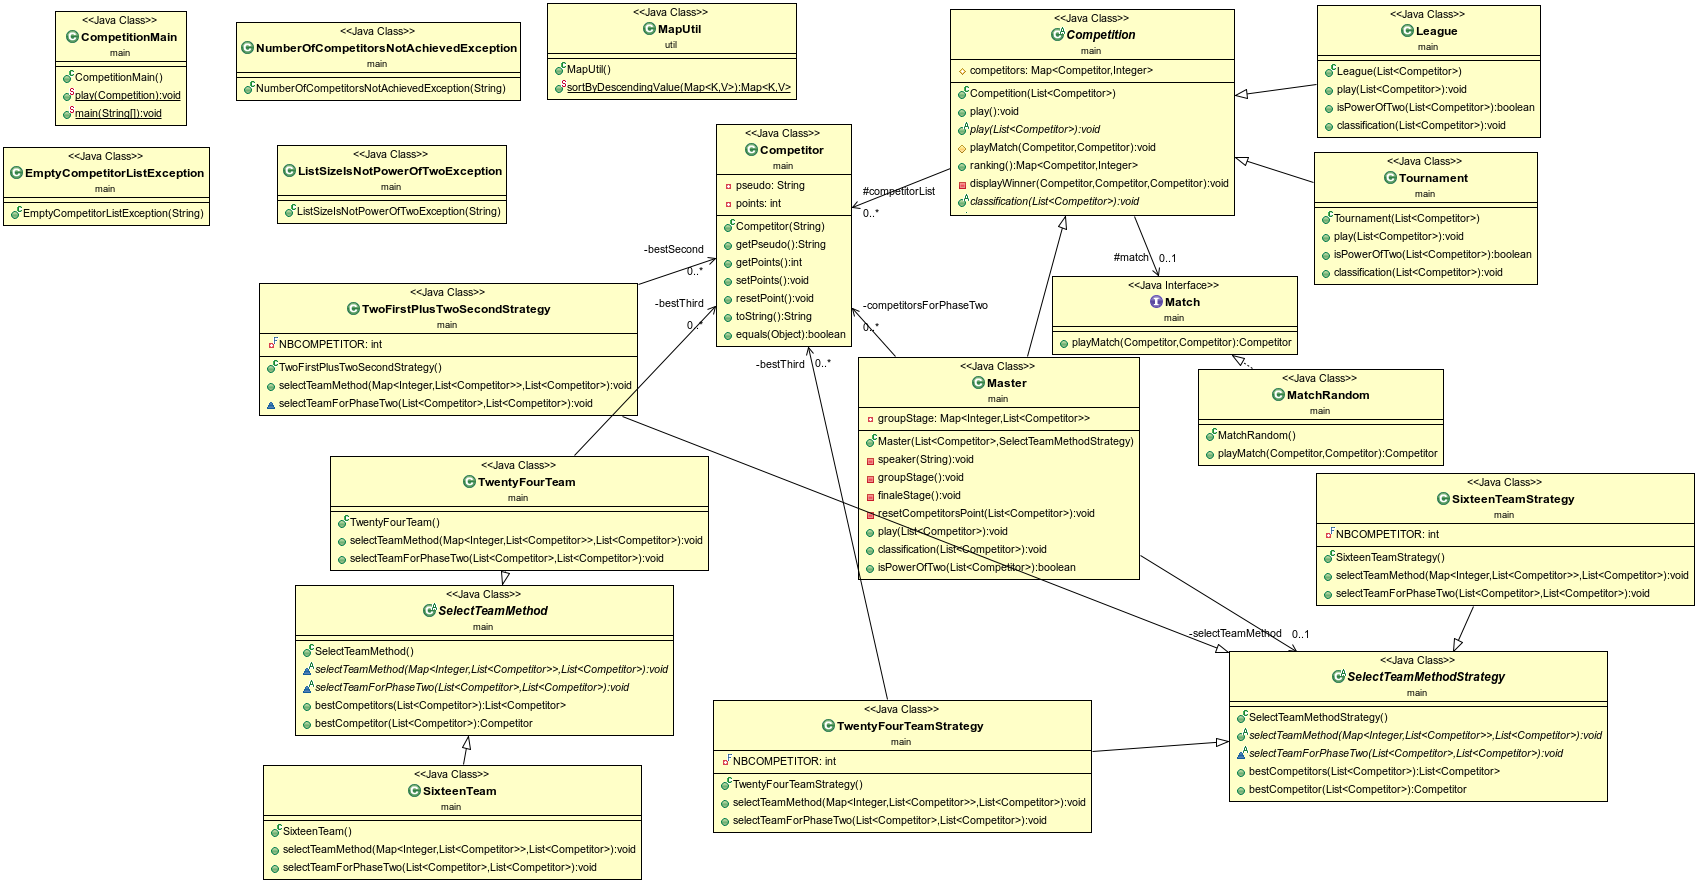
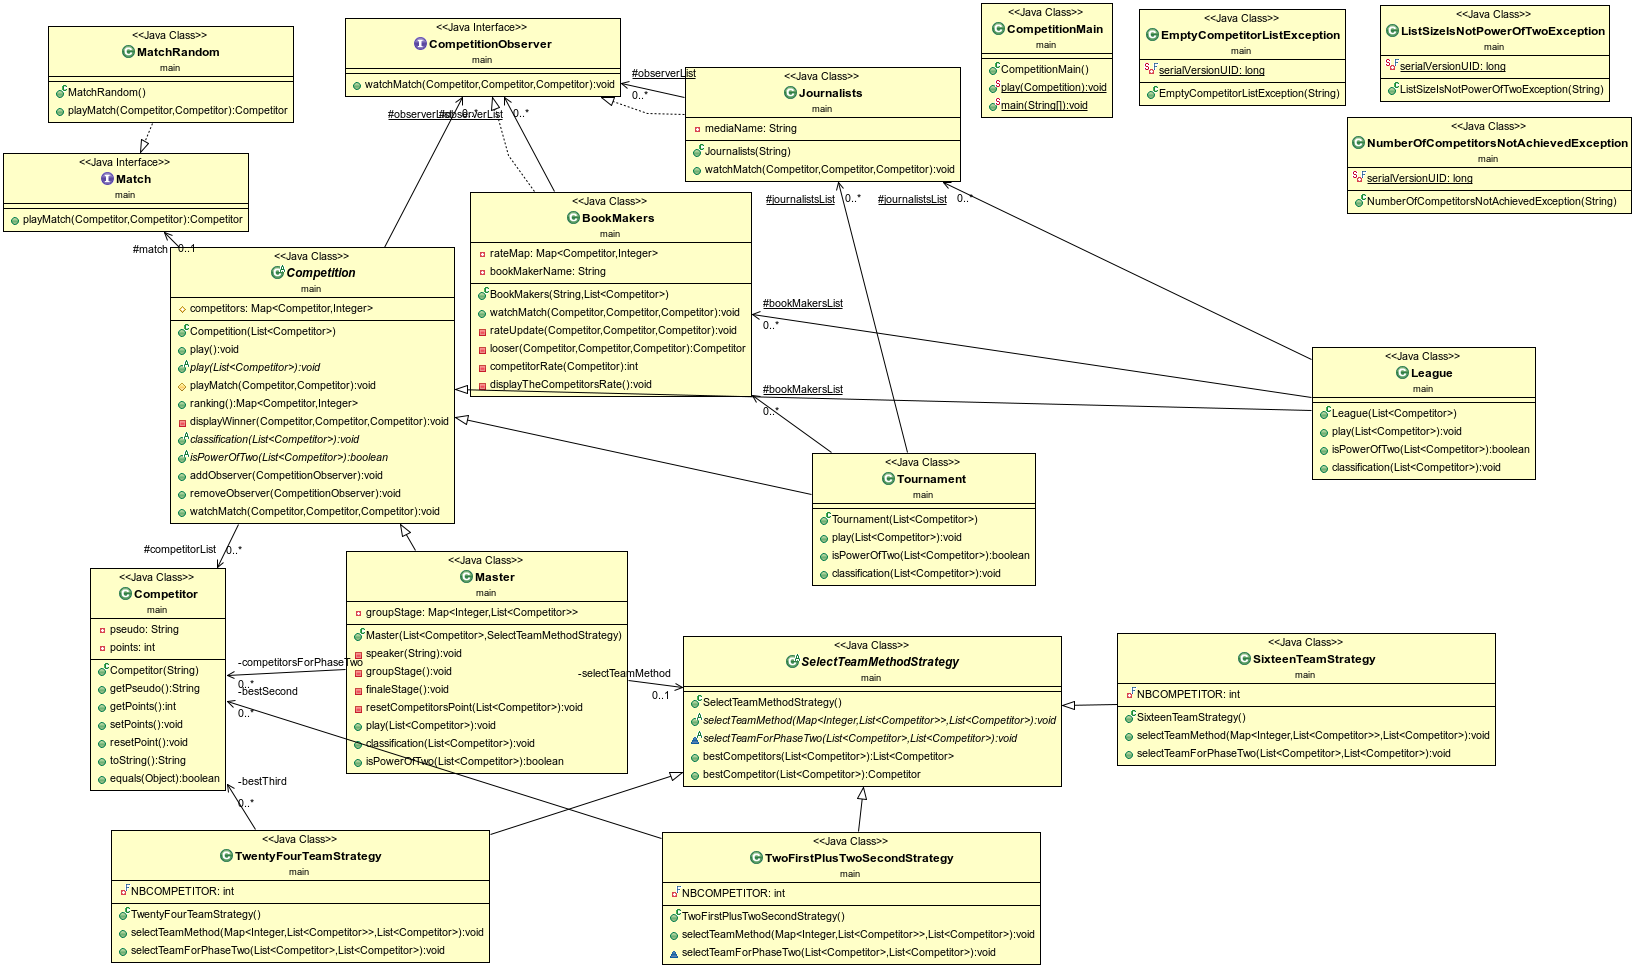
version_3

diff --git a/version_3/main/CompetitionMain.java b/version_3/main/CompetitionMain.java
@@ -55,15 +55,20 @@ public class CompetitionMain {
                 competition.addObserver(new BookMakers("Bet+", competitorList));
                 play(competition);
                 break;
-            case "M32":
-                for(int i=1; i<=32; i++){
-                    Competitor competitor = new Competitor("Team"+i);
-                    competitorList.add(competitor);
-                }
-                selectTeamMethod = new TwoFirstPlusTwoSecondStrategy();
+            case "M32" :
+            	for(int i=1; i<=32; i++){
+                       Competitor competitor = new Competitor("c"+i);
+                       competitorList.add(competitor);   
+                   }
+            	selectTeamMethod = new TwoFirstPlusTwoSecondStrategy();
                 competition = new Master(competitorList, selectTeamMethod);
+                competition.addObserver(new Journalists("Canal+"));
+                competition.addObserver(new BookMakers("Bet+", competitorList));
                 play(competition);
                 break;
+             default :
+            	 System.out.println("Choix Incorrect ");
+            	 break;
         }
 
     }

diff --git a/version_3/main/Journalists.java b/version_3/main/Journalists.java
@@ -3,13 +3,28 @@ package main;
 import java.util.ArrayList;
 import java.util.List;
 
+/**
+ * @author traorea  sharfeldin
+ *
+ */
+
 public class Journalists implements CompetitionObserver{
     private String mediaName;
     protected static List<CompetitionObserver>observerList = new ArrayList<>();
 
+    /**
+     * @param mediaName
+     */
     public Journalists(String mediaName){
         this.mediaName = mediaName;
     }
+    
+    /**
+     * @param c1
+     * @param c2
+     * @param winner
+     * display information of the match
+     */
     @Override
     public void watchMatch(Competitor c1, Competitor c2, Competitor winner) {
         System.out.println("**** Bienvenue sur "+this.mediaName+ " ****");

diff --git a/version_3/main/Competition.java b/version_3/main/Competition.java
@@ -11,6 +11,10 @@ public abstract class Competition {
     protected static List<CompetitionObserver>observerList = new ArrayList<>();;
 
 
+    /**
+     * constructor Competition
+     * @param competitorList
+     */
     public Competition(List<Competitor> competitorList) {
         this.competitorList = competitorList;
     }
@@ -67,7 +71,7 @@ public abstract class Competition {
     }
 
     /**
-     * <p>classification.</p>
+     * classification
      */
     public abstract void classification(List<Competitor>competitorList);
 

diff --git a/version_3/main/EmptyCompetitorListException.java b/version_3/main/EmptyCompetitorListException.java
@@ -1,6 +1,10 @@
 package main;
 
 
+/**
+ * @author traorea_sharfeldin
+ *
+ */
 public class EmptyCompetitorListException extends Exception{
     /**
 	 * 
@@ -8,6 +12,10 @@ public class EmptyCompetitorListException extends Exception{
 	private static final long serialVersionUID = 1L;
 
 	
+    /**
+     * @param msg
+     * detect error exception  EmptyCompetitorListException  when it's empty
+      */
     public EmptyCompetitorListException(String msg){
         super(msg);
     }

diff --git a/version_3/main/BookMakers.java b/version_3/main/BookMakers.java
@@ -7,6 +7,11 @@ public class BookMakers implements CompetitionObserver{
     private String bookMakerName;
     protected static List<CompetitionObserver>observerList = new ArrayList<>();
 
+    /**
+     * constructor BookMakers
+     * @param bookMakerName
+     * @param competitorList
+     */
     public BookMakers(String bookMakerName, List<Competitor>competitorList){
         this.rateMap = new HashMap<>();
         this.bookMakerName = bookMakerName;

diff --git a/version_3/main/League.java b/version_3/main/League.java
@@ -4,10 +4,17 @@ import java.util.ArrayList;
 import java.util.List;
 
 
+/**
+ * @author traorea_sharfeldin
+ *  
+ *
+ */
 public class League extends Competition{
 	 protected static List<Journalists>journalistsList = new ArrayList<>();
-	 protected static List<BookMakers>bookMakersList = new ArrayList<>();
-  
+	
+    /**
+     * @param competitorList
+     */
     public League(List<Competitor>competitorList){
         super(competitorList);
     }

diff --git a/version_3/main/ListSizeIsNotPowerOfTwoException.java b/version_3/main/ListSizeIsNotPowerOfTwoException.java
@@ -2,11 +2,17 @@ package main;
 
 public class ListSizeIsNotPowerOfTwoException extends Exception{
     /**
+     * @author traorea_sharfeldin
+     * 
 	 * 
 	 */
 	
 	private static final long serialVersionUID = 1L;
 
+    /**
+     * @param msg
+     * detect error exception  ListSizeIsNotPowerOfTwoException  when is not power of two
+      */
 	public ListSizeIsNotPowerOfTwoException(String msg){
         super(msg);
     }

diff --git a/version_3/main/CompetitionObserver.java b/version_3/main/CompetitionObserver.java
@@ -2,6 +2,16 @@ package main;
 
 
 
+/**
+ * @author traorea sharfeldin
+ *
+ */
+/*
+ * interface CompetitionObserver
+ * @param Competitor c1
+ * @param Competitor c2
+ * @param Competitor winner
+ */
 public interface CompetitionObserver {
     void watchMatch(Competitor c1, Competitor c2, Competitor winner);
 }

diff --git a/version_3/main/Competitor.java b/version_3/main/Competitor.java
@@ -3,7 +3,7 @@ package main;
 
 public class Competitor {
 	/**
-	 * @author traorea
+	 * @author traorea sharfeldin
 	 *
 	 */
 	    private String pseudo;

diff --git a/version_3/README.md b/version_3/README.md
@@ -70,11 +70,17 @@ Placez vous dans le dossier
 puis pour lancer, faites la commande :
 
  `java -jar  master.jar  typeCompet(M16 ou M24 ou M32) c1 c2 c3 ... ` 
- exemple = `java -jar master.jar  M16  c1 c2 c3 c4 c5 c6 c7 c8 c9 c10 c11 c12 c13 c14 c15 c16` 
+# exemple 16 :
+  `java -jar master.jar  M16  c1 c2 c3 c4 c5 c6 c7 c8 c9 c10 c11 c12 c13 c14 c15 c16` 
 
-                    ou 
+
+
+# exemple 24 :
+  `java -jar master.jar  M24  c1 c2 c3 c4 c5 c6 c7 c8 c9 c10 c11 c12 c13 c14 c15 c16 c17 c18 c19 c20 c21 c22 c23 c24`
+
+                   
   `java -jar  master.jar  typeCompet(L ou T ) c1 c2 c3 ... ` 
-  exemple = `java -jar master.jar  L  c1 c2 c3 c4 c5 c6 c7 c8`
+# exemple = `java -jar master.jar  L  c1 c2 c3 c4 c5 c6 c7 c8`
 
 
 ## Element de code:
